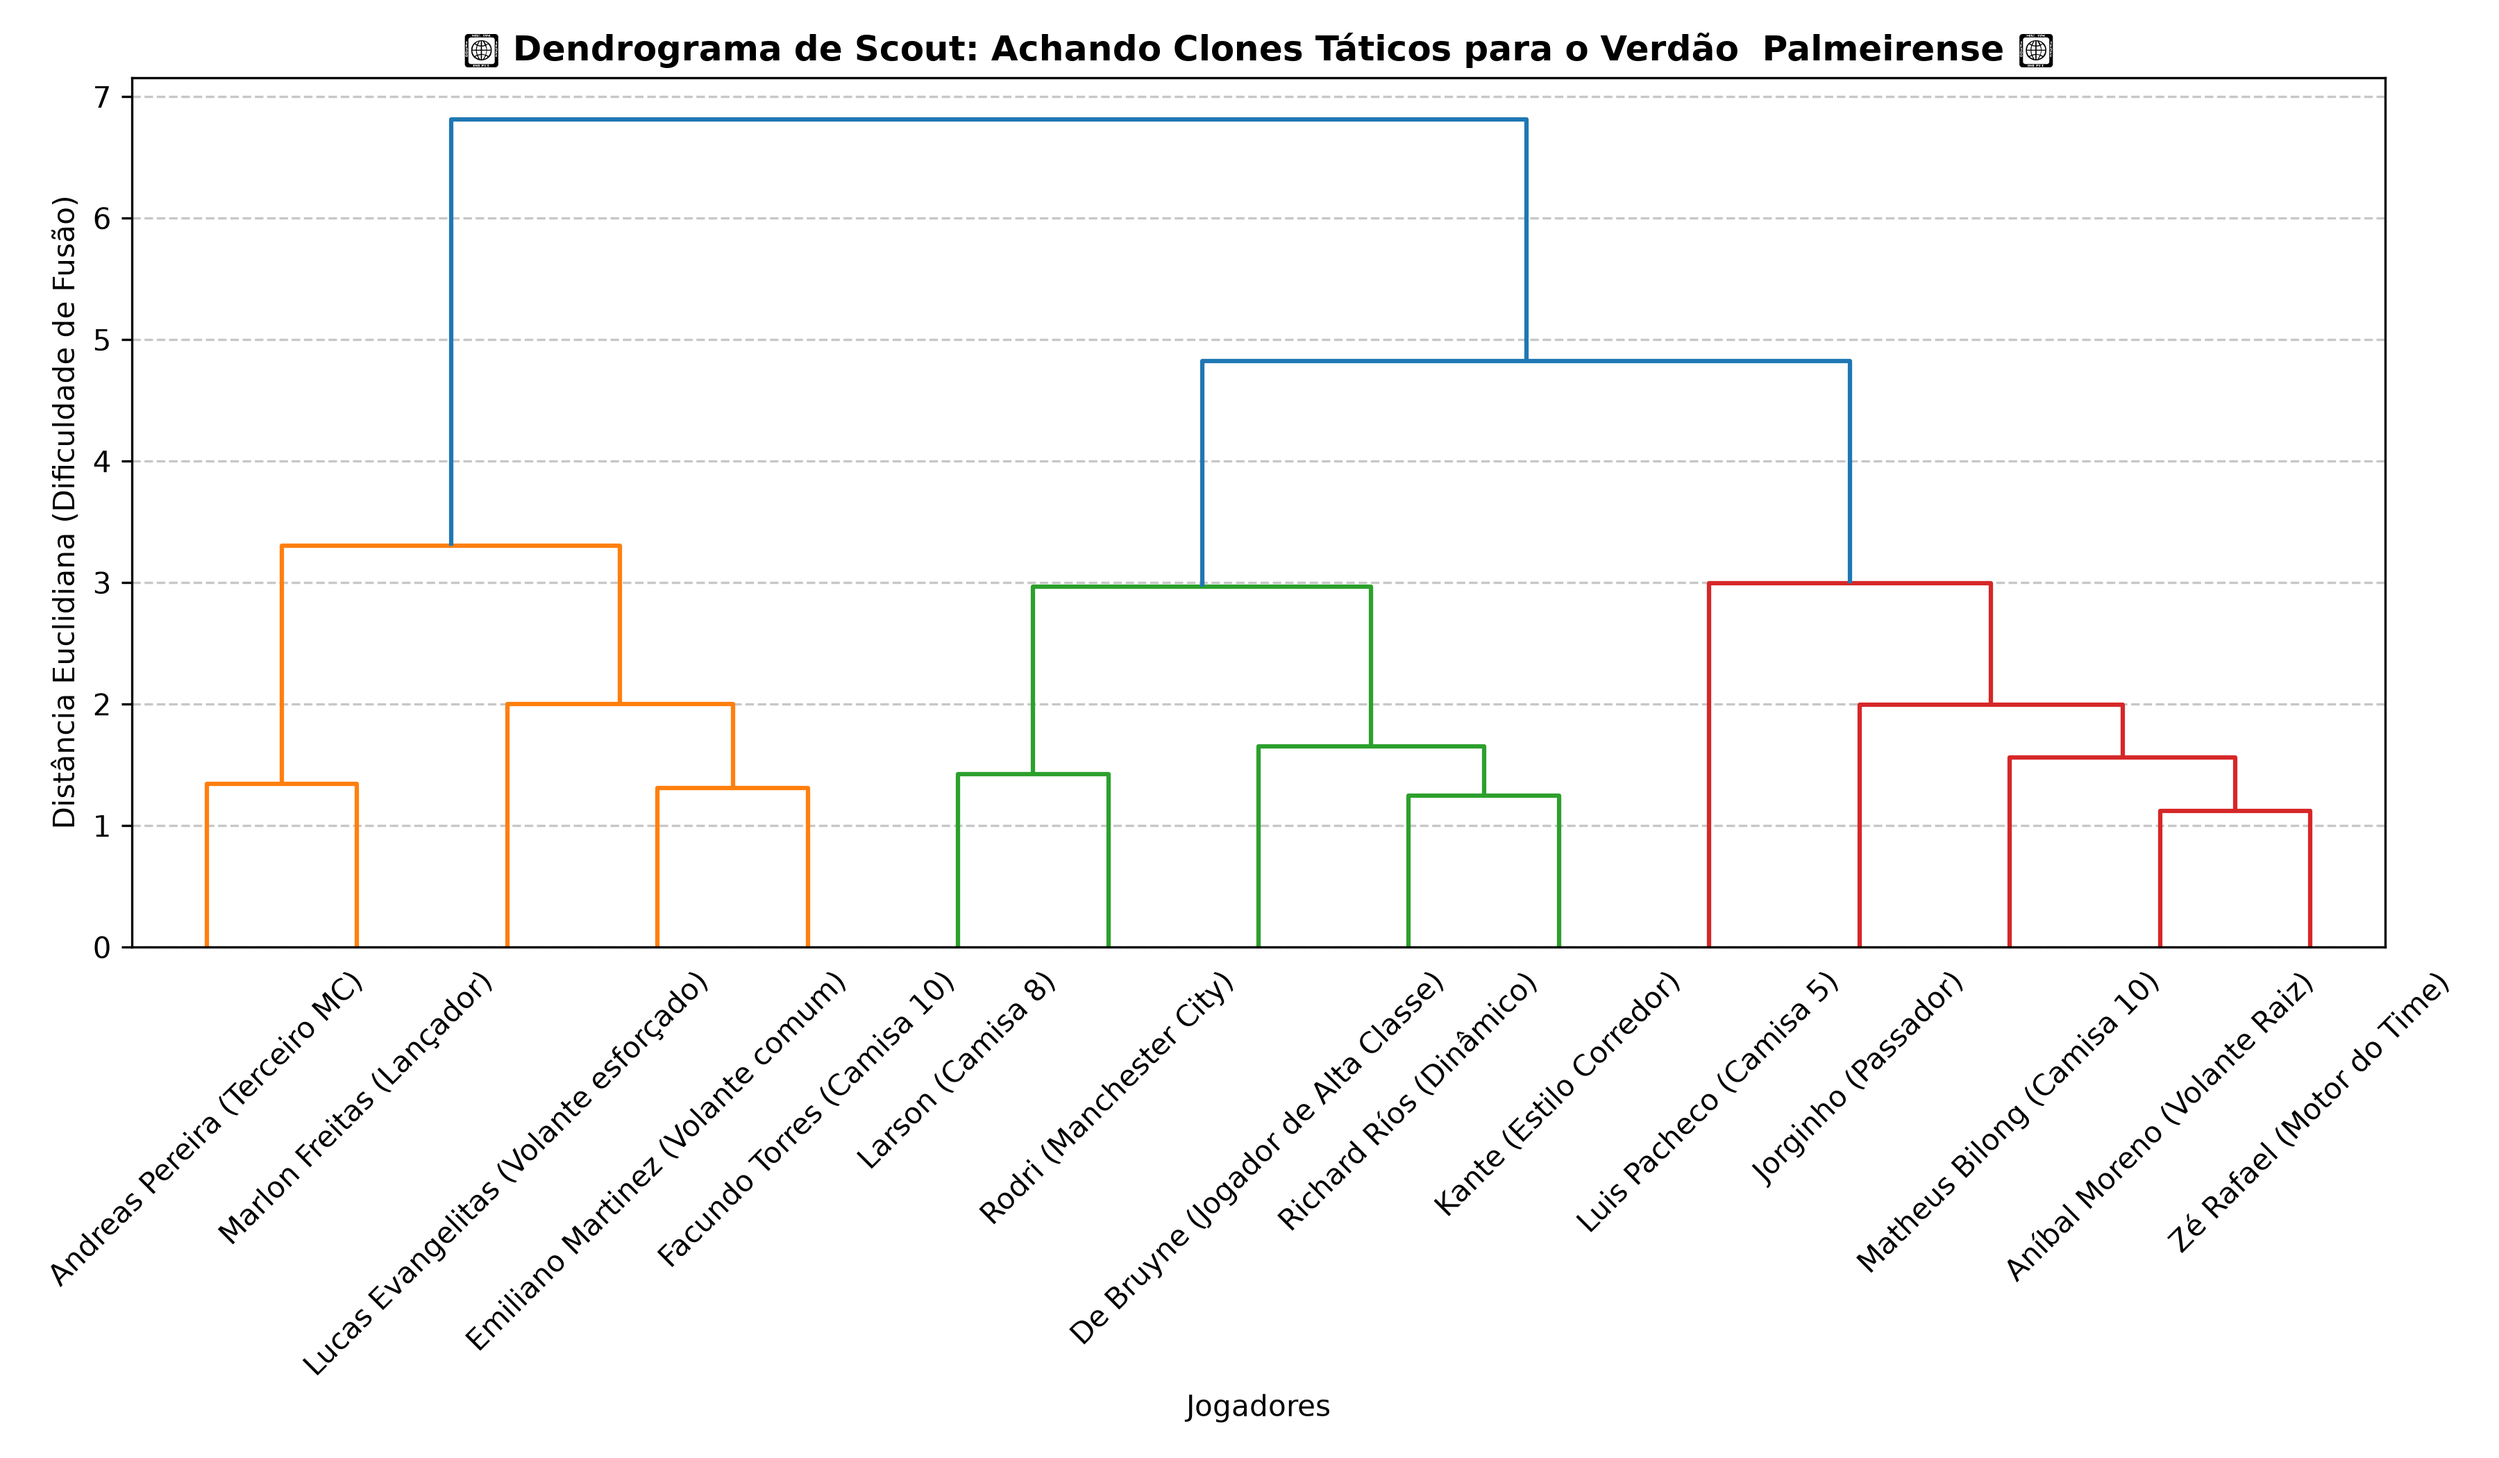
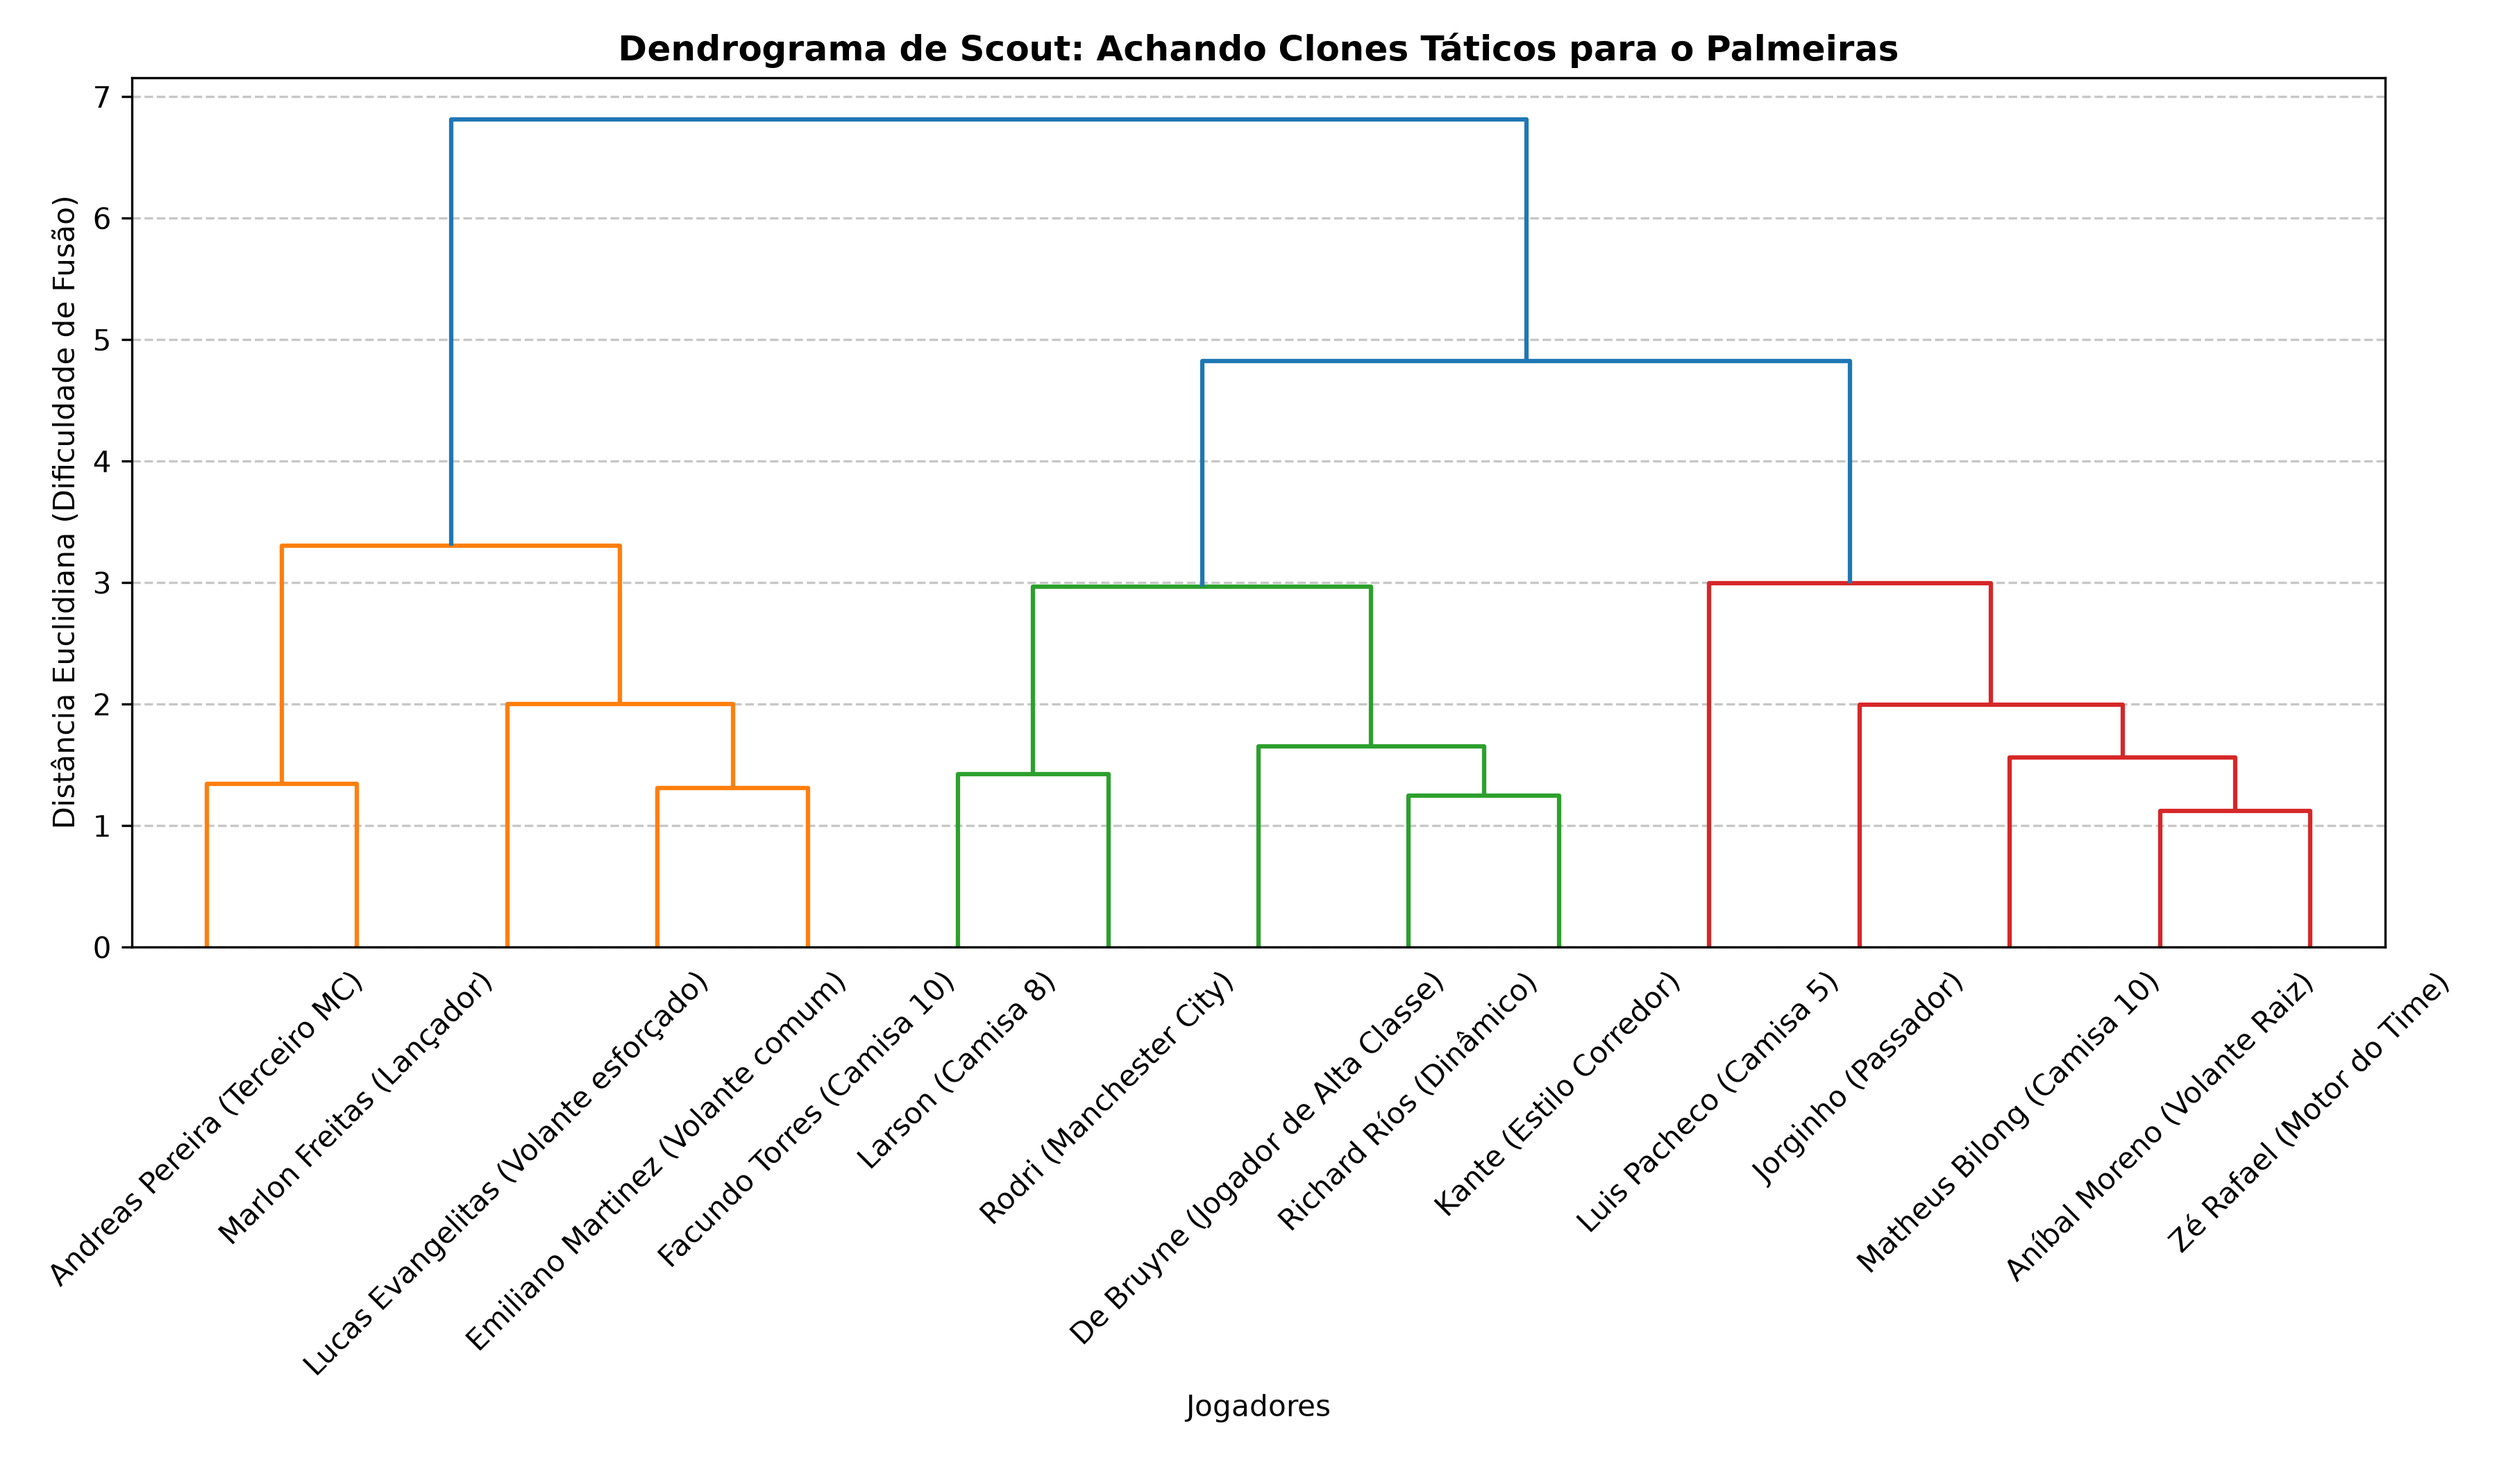
Fixing plots and services

Changed region(s): [[0.1867, 0.0, 0.84, 0.0619]]

diff --git a/src/services/agr_hier_graph.py b/src/services/agr_hier_graph.py
@@ -24,7 +24,7 @@ dendrogram(
     leaf_font_size=10,
 )
 
-plt.title('🌳 Dendrograma de Scout: Achando Clones Táticos para o Verdão  Palmeirense 🐷', fontsize=12, fontweight='bold')
+plt.title('Dendrograma de Scout: Achando Clones Táticos para o Palmeiras', fontsize=12, fontweight='bold')
 plt.xlabel('Jogadores')
 plt.ylabel('Distância Euclidiana (Dificuldade de Fusão)')
 plt.grid(axis='y', linestyle='--', alpha=0.7)
